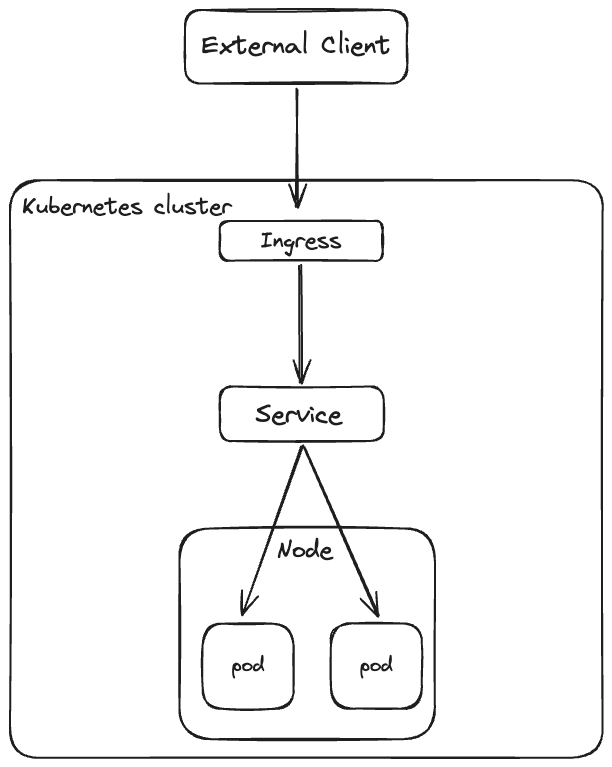
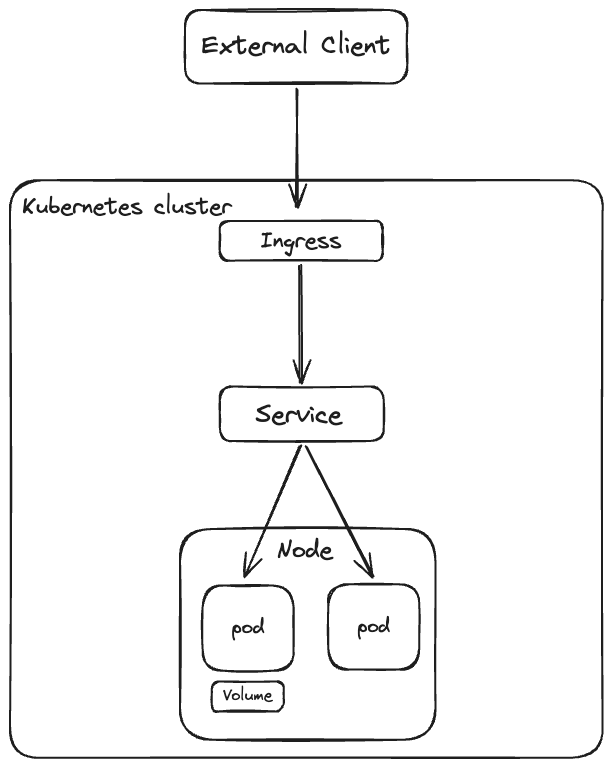
fix: components image

diff --git a/content/posts/projects_to_learn/go_microservices/part3/index.md b/content/posts/projects_to_learn/go_microservices/part3/index.md
@@ -101,6 +101,9 @@ Services:
 Ingress:
 - Expose http and https routes from external components to services within the cluster
 
+Volumes:
+- Storage which can exists beyond the lifetime of a pod if it's persistent volumens
+
 You can describe what will be deployed in Kubernetes cluster by Kubernetes manifest files, which are JSON or YAML files.
 
 ## Understanding Minikube
